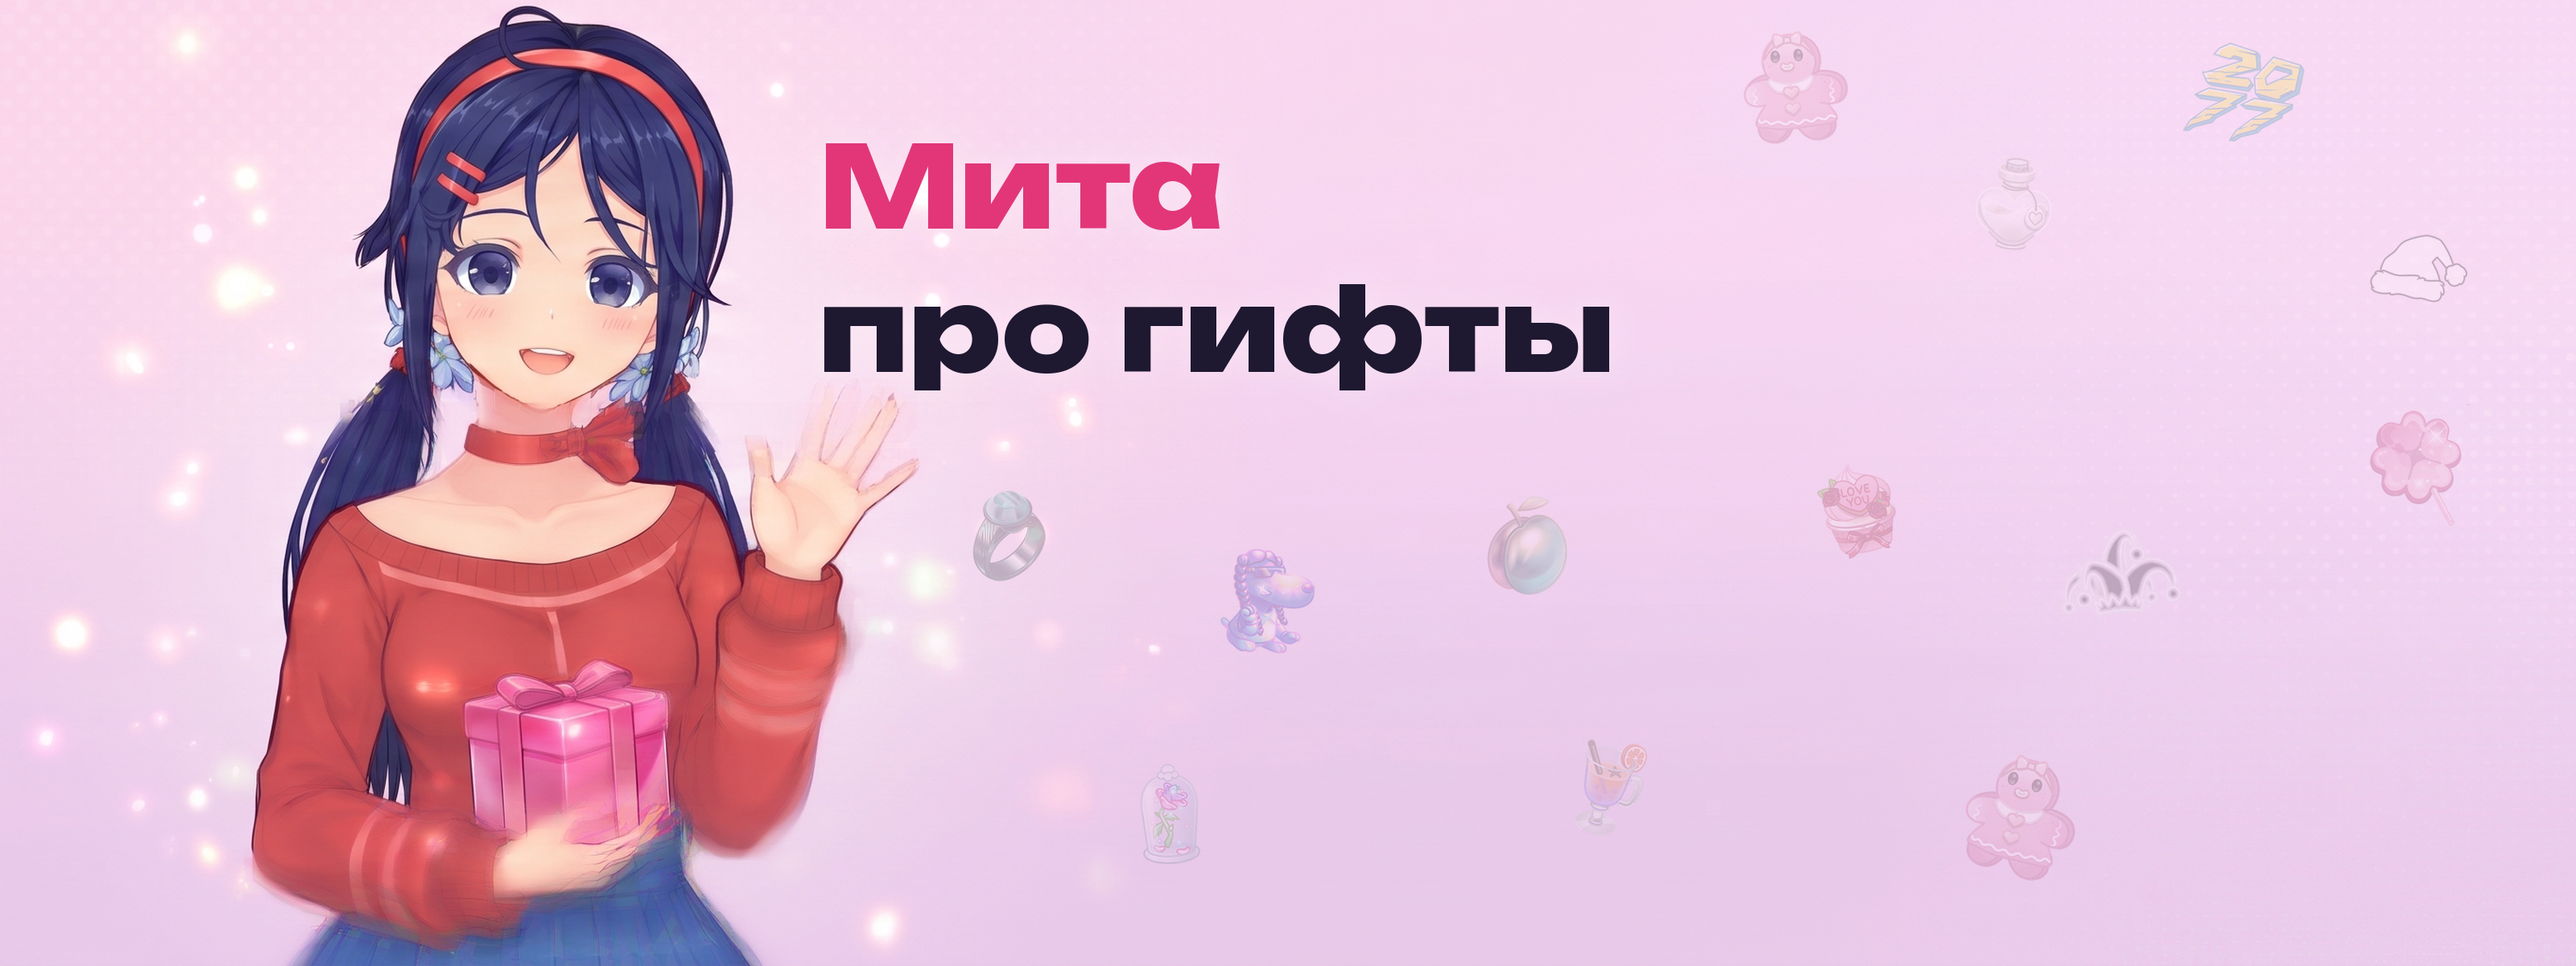
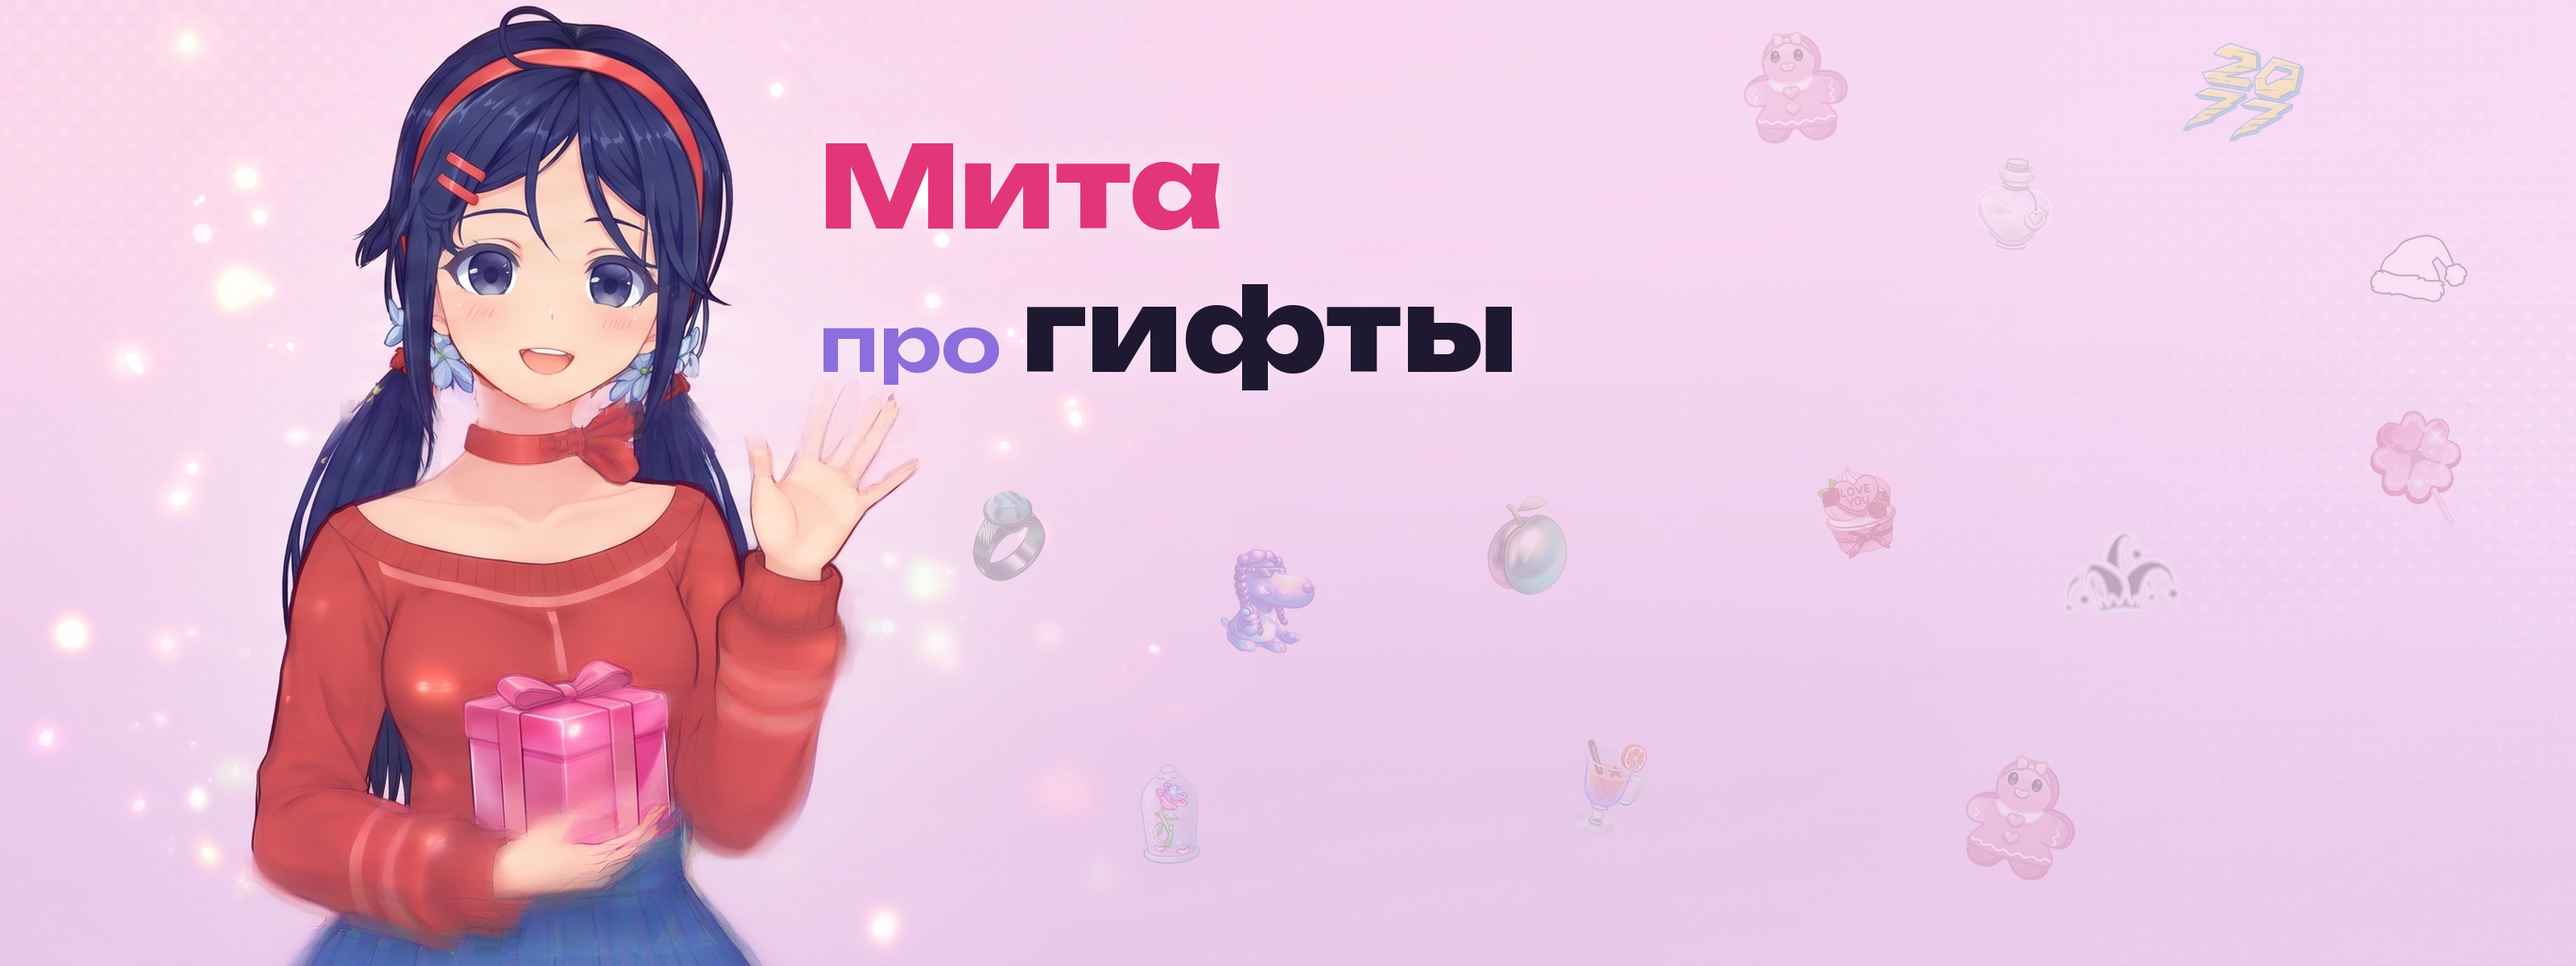
49-mita-monochrome: баннер — «про» мельче и лавандовым
Claude-Session: https://claude.ai/code/session_012PNwYZXdw6QfqQCMnTcc5j

Changed region(s): [[0.3125, 0.2775, 0.625, 0.4008]]

diff --git a/projects/49-mita-monochrome/channel/make_banner_wide.py b/projects/49-mita-monochrome/channel/make_banner_wide.py
@@ -44,8 +44,13 @@ for k, (fx_, fy_) in enumerate(spots):
     deco.alpha_composite(p, (px - p.width // 2, py - p.height // 2))
 im.alpha_composite(deco)
 lay = Image.new('RGBA', (W, H), (0, 0, 0, 0)); d = ImageDraw.Draw(lay)
-for j, (t_, col) in enumerate(lines):
-    d.text((x, y + j * LH), t_, font=f1, fill=col + (255,))
+d.text((x, y), 'Мита', font=f1, fill=PINK + (255,))
+# вторая строка: «про» мельче и лавандовым, «гифты» — основной тёмный; по общей базовой линии
+fp = font('SemiBold', 96)
+VIOLET = (140, 110, 220)
+base = y + LH + f1.getmetrics()[0]
+d.text((x, base), 'про ', font=fp, fill=VIOLET + (255,), anchor='ls')
+d.text((x + d.textlength('про ', font=fp), base), 'гифты', font=f1, fill=INK + (255,), anchor='ls')
 sh = Image.new('RGBA', (W, H), (255, 255, 255, 0)); sh.putalpha(lay.getchannel('A').point(lambda v: int(v * 0.35)))
 im.alpha_composite(sh.filter(ImageFilter.GaussianBlur(18))); im.alpha_composite(lay)
 im.convert('RGB').save(dst, quality=95)
